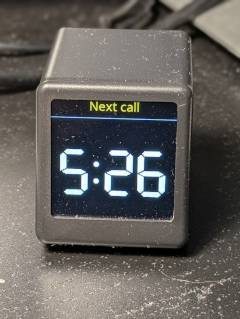
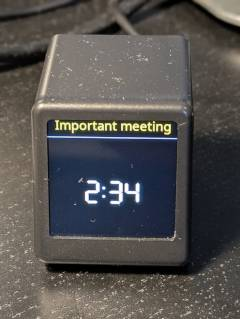
gauge for big num

diff --git a/src/themes/notification.cpp b/src/themes/notification.cpp
@@ -6,10 +6,98 @@
 
 NotificationState notificationState;
 
-void themeRenderNotification(const bool forceClear) {
-    if (!forceClear) {
-        return;
+GaugeState gaugeState;
+
+void parseValue(const char *input) {
+    char buffer[32];
+    strncpy(buffer, input, sizeof(buffer) - 1);
+    buffer[sizeof(buffer) - 1] = '\0';
+
+    // Split unit if space exists
+    char *spacePtr = strchr(buffer, ' ');
+    if (spacePtr != nullptr) {
+        *spacePtr = '\0'; // terminate value part
+        strncpy(gaugeState.unit, spacePtr + 1, GAUGE_UNIT_BUFFER_SIZE - 1);
+        gaugeState.unit[GAUGE_UNIT_BUFFER_SIZE - 1] = '\0';
+    } else {
+        gaugeState.unit[0] = '\0';
     }
+
+    // Check for slash
+    if (char *slashPtr = strchr(buffer, '/'); slashPtr != nullptr) {
+        *slashPtr = '\0';
+        gaugeState.current = atof(buffer);
+        gaugeState.max = atof(slashPtr + 1);
+    } else {
+        gaugeState.current = atof(buffer);
+        gaugeState.max = 0;
+    }
+}
+
+void drawGauge(const int x, const int y, const int r, const float current, const float max) {
+    if (max <= 0) return;
+
+    float percent = current / max;
+    if (percent < 0) percent = 0;
+    if (percent > 1) percent = 1;
+
+    constexpr int startAngle = 55;
+    constexpr int endAngle = 305;
+    const uint32_t valueAngle = startAngle + (endAngle - startAngle) * percent;
+    tft.startWrite();
+    tft.drawArc(x, y, r, r - 12, startAngle, endAngle, TFT_DARKGREY, TFT_BLACK);
+
+    const bool hasSubject = notificationState.subject[0] != '\0';
+    const int centerX = tft.width() / 2;
+    const int32_t subjectOffset = hasSubject ? centerX / ANIMATION_STEPS : 0;
+    const uint32_t gaugeOffset = (valueAngle - startAngle) / ANIMATION_STEPS;
+    const uint32_t gaugeColor = percent < 0.2f || percent > 0.8 ? TFT_RED : TFT_OLIVE;
+    for (int i = 1; i <= ANIMATION_STEPS; i++) {
+        // Draw line together with gauge for smooth animation
+        if (hasSubject) tft.drawFastHLine(centerX - i * subjectOffset, 32, i * subjectOffset * 2, TFT_SILVER);
+        // Draw gauge
+        uint32_t currentGaugeOffset = i * gaugeOffset;
+        currentGaugeOffset = currentGaugeOffset < valueAngle ? currentGaugeOffset : valueAngle;
+        tft.drawArc(x, y, r, r - 12, startAngle, startAngle + currentGaugeOffset, gaugeColor, TFT_BLACK);
+        delay(ANIMATION_STEP_DELAY);
+    }
+
+    tft.endWrite();
+}
+
+void showNumber(const char *input, const int x, const int y) {
+    parseValue(input);
+    const bool hasGauge = gaugeState.max > 0;
+    const bool hasUnit = gaugeState.unit[0] != '\0';
+
+    // Draw current value
+    char numBuffer[8];
+    if (const float val = gaugeState.current; val == (int) val)
+        sprintf(numBuffer, "%d", static_cast<int>(val));
+    else
+        dtostrf(val, 0, 1, numBuffer);
+
+    tft.setTextDatum(MC_DATUM);
+    const int currentY = hasGauge ? y + 10 : hasUnit ? y - 16 : y;
+    tft.drawString(numBuffer, x, currentY, FONT_DIGIT);
+
+    // Draw unit
+    if (hasUnit) {
+        tft.loadFont(Roboto_Regular24);
+        tft.drawString(gaugeState.unit, x, currentY + 60);
+        tft.unloadFont();
+    }
+
+    if (hasGauge)
+        // Draw gauge
+        drawGauge(x, y + 15, 100, gaugeState.current, gaugeState.max);
+    else if (notificationState.subject[0] != '\0')
+        // Draw missing subject line
+        animateHLine(32);
+}
+
+void themeRenderNotification(const bool forceClear) {
+    if (!forceClear) return;
 
     if (notificationState.message[0] == '\0') {
         showMessage(F("No messages"), 5);
@@ -31,46 +119,39 @@ void themeRenderNotification(const bool forceClear) {
 
     // Draw message
     if (strcmp(notificationState.style, "big_num") == 0) {
-        tft.setTextDatum(MC_DATUM);
-        if (strlen(notificationState.message) < 5) {
-            tft.setTextSize(2);
-        }
-        tft.drawString(notificationState.message, centerX, centerY + currentY / 2, FONT_DIGIT);
-        tft.setTextSize(1);
-    } else {
-        char *wrapped[MAX_LINES];
-        char *msg = strdup(notificationState.message);
-        const size_t count = wrapText(msg, wrapped, MAX_LINES);
-
-        int currentX = 5;
-        if (strcmp(notificationState.style, "center") == 0) {
-            tft.setTextDatum(TC_DATUM);
-            currentX = centerX;
-            currentY = centerY + currentY / 2 - LINES_OFFSET * count / 2;
-        } else {
-            if (!hasSubject) {
-                currentY = 5;
-            }
-            tft.setTextDatum(TL_DATUM);
-        }
-
-        tft.loadFont(Roboto_Regular24);
-        tft.startWrite();
-        for (int i = 0; i < count; i++) {
-            if (strcmp(wrapped[i], "---") == 0) {
-                const int lineY = currentY + i * LINES_OFFSET + LINES_OFFSET / 3;
-                tft.drawFastHLine(0, lineY, tft.width(), TFT_DARKGREY);
-            } else {
-                tft.drawString(wrapped[i], currentX, currentY + i * LINES_OFFSET);
-            }
-        }
-        tft.endWrite();
-        tft.unloadFont();
-        free(msg);
+        showNumber(notificationState.message, centerX, centerY + currentY / 2);
+        // Subject line also handled separately, stop here
+        return;
     }
+
+    char *wrapped[MAX_LINES];
+    char *msg = strdup(notificationState.message);
+    const size_t count = wrapText(msg, wrapped, MAX_LINES);
+
+    int currentX = 5;
+    if (strcmp(notificationState.style, "center") == 0) {
+        tft.setTextDatum(TC_DATUM);
+        currentX = centerX;
+        currentY = centerY + currentY / 2 - LINES_OFFSET * count / 2;
+    } else {
+        if (!hasSubject) currentY = 5;
+        tft.setTextDatum(TL_DATUM);
+    }
+
+    tft.loadFont(Roboto_Regular24);
+    tft.startWrite();
+    for (int i = 0; i < count; i++) {
+        if (strcmp(wrapped[i], "---") == 0) {
+            const int lineY = currentY + i * LINES_OFFSET + LINES_OFFSET / 3;
+            tft.drawFastHLine(0, lineY, tft.width(), TFT_DARKGREY);
+        } else {
+            tft.drawString(wrapped[i], currentX, currentY + i * LINES_OFFSET);
+        }
+    }
+    tft.endWrite();
+    tft.unloadFont();
+    free(msg);
 
     // Draw subject line
-    if (hasSubject) {
-        drawHLine(32);
-    }
+    if (hasSubject) animateHLine(32);
 }

diff --git a/src/utils.cpp b/src/utils.cpp
@@ -85,13 +85,14 @@ size_t splitString(const String &s, String lines[], const size_t maxLines) {
     return count;
 }
 
-void drawHLine(const int y) {
-    const int centerX = tft.width() / 2;
+void animateHLine(const int y) {
+    const int32_t centerX = tft.width() / 2;
+    const int32_t offset = centerX / ANIMATION_STEPS;
 
     tft.startWrite();
-    for (int dx = 0; dx <= centerX; dx += 8) {
-        tft.drawFastHLine(centerX - dx, y, dx * 2, TFT_SILVER);
-        delay(20); // control animation speed
+    for (int i = 1; i <= ANIMATION_STEPS; i++) {
+        tft.drawFastHLine(centerX - i * offset, y, i * offset * 2, TFT_SILVER);
+        delay(ANIMATION_STEP_DELAY);
     }
     tft.endWrite();
 }

diff --git a/src/themes/notification.h b/src/themes/notification.h
@@ -5,11 +5,20 @@
 #define NOTIFICATION_MSG_BUFFER_SIZE 256
 #define NOTIFICATION_STYLE_BUFFER_SIZE 8
 
+#define GAUGE_UNIT_BUFFER_SIZE 16
+
 struct NotificationState {
     char subject[NOTIFICATION_SBJ_BUFFER_SIZE];
     char message[NOTIFICATION_MSG_BUFFER_SIZE];
     char style[NOTIFICATION_STYLE_BUFFER_SIZE];
 };
+
+struct GaugeState {
+    float current;
+    float max;
+    char unit[GAUGE_UNIT_BUFFER_SIZE];
+};
+
 
 void themeRenderNotification(bool forceClear);
 

diff --git a/src/config.h b/src/config.h
@@ -38,4 +38,8 @@
 #define DEFAULT_TIMEZONE "CET-1CEST-2,M3.5.0/02:00:00,M10.5.0/03:00:00"
 #define DEFAULT_BRIGHTNESS 50
 
+// Animation settings
+#define ANIMATION_STEPS 20 // Higher number - smoother animation
+#define ANIMATION_STEP_DELAY 20 // Lower number - faster animation
+
 #endif

diff --git a/src/themes/countdown.cpp b/src/themes/countdown.cpp
@@ -57,5 +57,5 @@ void themeRenderCountdown(const bool forceClear, const time_t &now) {
     tft.setTextColor(TFT_WHITE, TFT_BLACK);
 
     // Draw subject line
-    if (hasSubject && forceClear) drawHLine(32);
+    if (hasSubject && forceClear) animateHLine(32);
 }

diff --git a/src/utils.h b/src/utils.h
@@ -11,7 +11,7 @@ size_t wrapText(char *text, char *lines[], size_t maxLines);
 
 size_t splitString(const String &s, String lines[], size_t maxLines);
 
-void drawHLine(int y);
+void animateHLine(int y);
 
 void drawSubject(const char *text);
 

diff --git a/README.md b/README.md
@@ -39,6 +39,13 @@ Since initial devices come with factory firmware, the **first** flash must be do
 Please check the instructions in the original repository for more
 details: [FLASHING.md](https://github.com/bvweerd/geekmagic-tv-esp8266/blob/dev/FLASHING.md)
 
+<details>
+<summary>Looks messy, but works :)</summary>
+
+![Flashing 1](/assets/photo_flash_1.jpg) ![Flashing 2](/assets/photo_flash_2.jpg)
+
+</details>
+
 ### Bootstrapping
 
 1. Device starts in AP mode.
@@ -80,14 +87,17 @@ curl "http://DEVICE_IP/set?sec=true"
 ### Messaging & Notifications
 
 ```bash
-# Show custom message
+# Show custom message (Hello world!\nПривет, мир!)
 curl "http://DEVICE_IP/set?msg=Hello%20world!%0A%D0%9F%D1%80%D0%B8%D0%B2%D0%B5%D1%82%2C%20%D0%BC%D0%B8%D1%80!%0A&sbj=Notification&style=center&timeout=10"
 
-# Set a sticky note on the clock screen
-curl "http://DEVICE_IP/set?note=-1%2C%20snow&timeout=3600"
+# Show gauge (21.4/40 ℃)
+curl 'http://DEVICE_IP/set?msg=21.4%2F40%20%E2%84%83&sbj=Living%20room&style=big_num&timeout=60'
+
+# Set a sticky note on the clock screen (-1℃, cloudy, multiline rotates within a minute)
+curl "http://DEVICE_IP/set?note=-1%E2%84%83%2C%20cloudy&timeout=3600"
 ```
 
-![Custom Message](/assets/photo_message.jpg) ![Sticky Note](/assets/photo_note.jpg)
+![Custom Message](/assets/photo_message.jpg) ![Gauge](/assets/photo_gauge.jpg) ![Sticky Note](/assets/photo_note.jpg)
 
 ### Countdown
 
